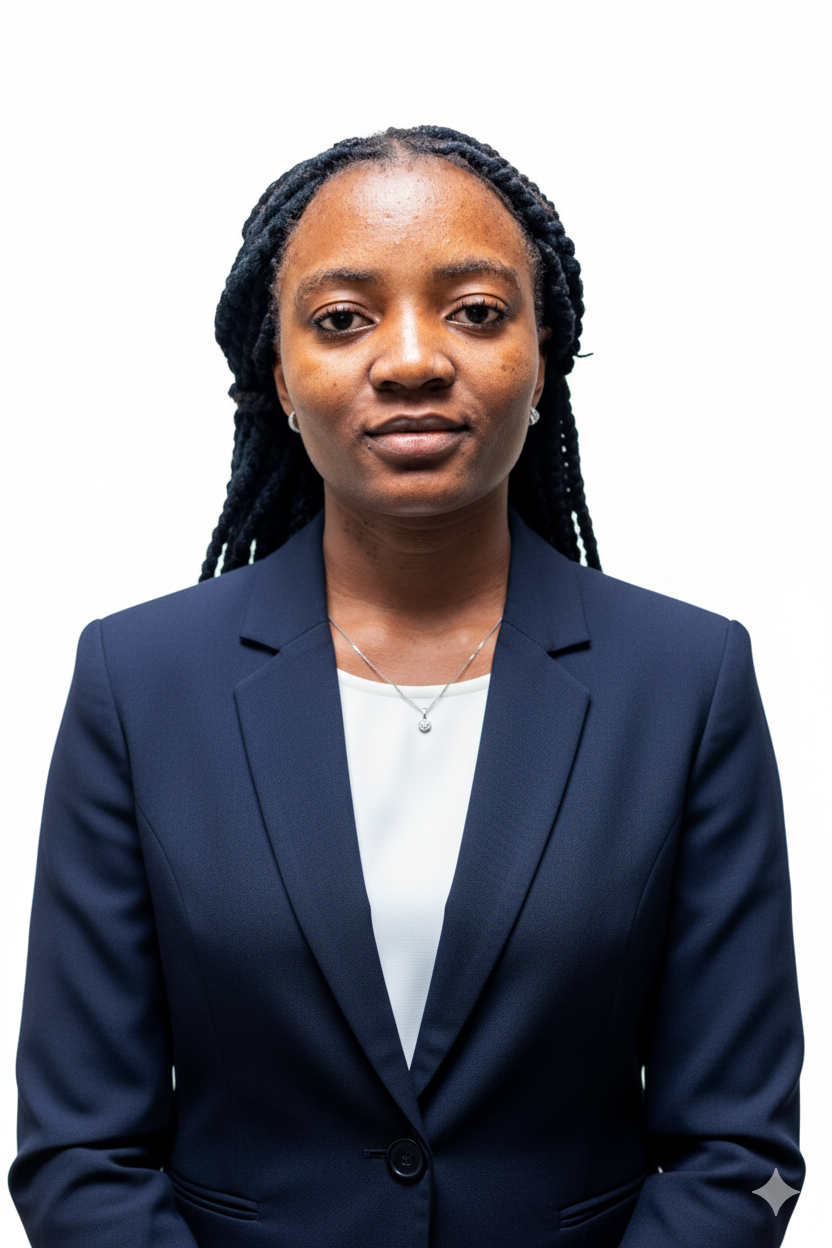
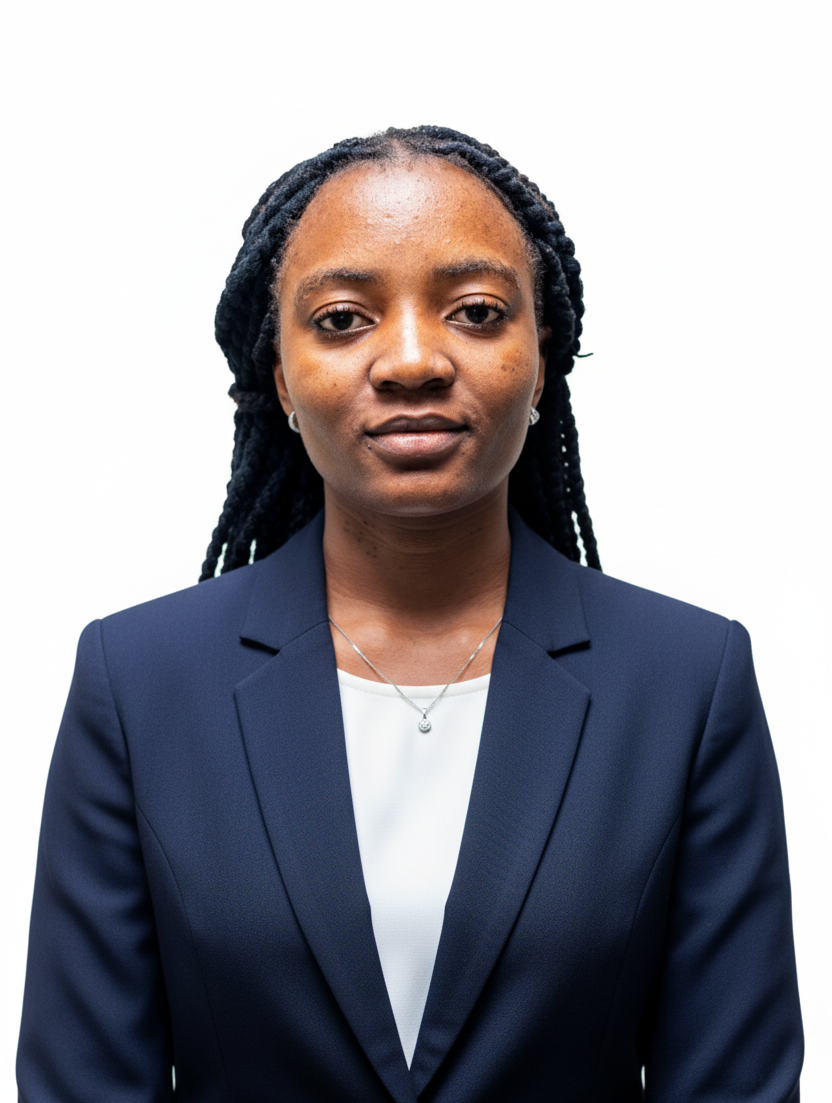
[UPDATE]: Christelle.png

diff --git a/src/components/Portofolio.jsx b/src/components/Portofolio.jsx
@@ -346,17 +346,13 @@ export default function Portfolio() {
               <div className="relative group">
                 <div className="w-64 h-64 rounded-lg overflow-hidden border-2 border-emerald-400 relative hover:border-emerald-300 transition-all">
                   <div className="absolute inset-0 bg-emerald-400/20 group-hover:bg-transparent transition-all z-10"></div>
-                  {/* Remplacez l'URL ci-dessous par le chemin de votre photo */}
+                  
                   <img 
-                    src="./Christelle.jpg"
+                    src="Christelle.png"
                     alt="Christelle BOKO" 
                     className="w-full h-full object-cover"
                   />
-                  {/* Si vous n'avez pas encore de photo, décommentez cette ligne et commentez l'img ci-dessus
-                  <div className="w-full h-full bg-slate-700 flex items-center justify-center text-6xl font-bold text-emerald-400">
-                    CB
-                  </div>
-                  */}
+                 
                 </div>
                 <div className="absolute -bottom-4 -right-4 w-64 h-64 border-2 border-emerald-400 rounded-lg -z-10 group-hover:translate-x-2 group-hover:translate-y-2 transition-transform"></div>
               </div>

diff --git a/vite.config.js b/vite.config.js
@@ -4,6 +4,7 @@ import tailwindcss from '@tailwindcss/vite'
 
 // https://vite.dev/config/
 export default defineConfig({
+  base: './',
   plugins: [
     react(),
     tailwindcss()
